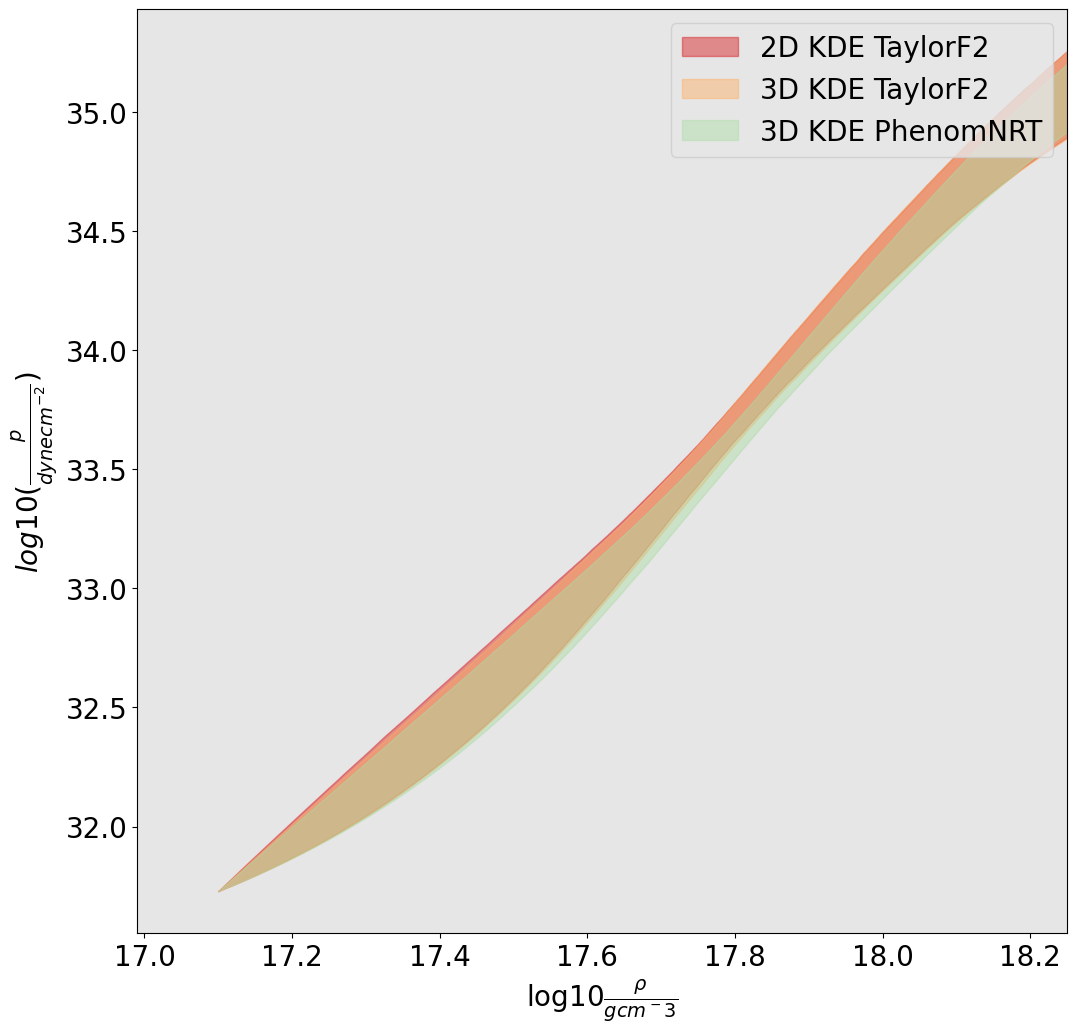
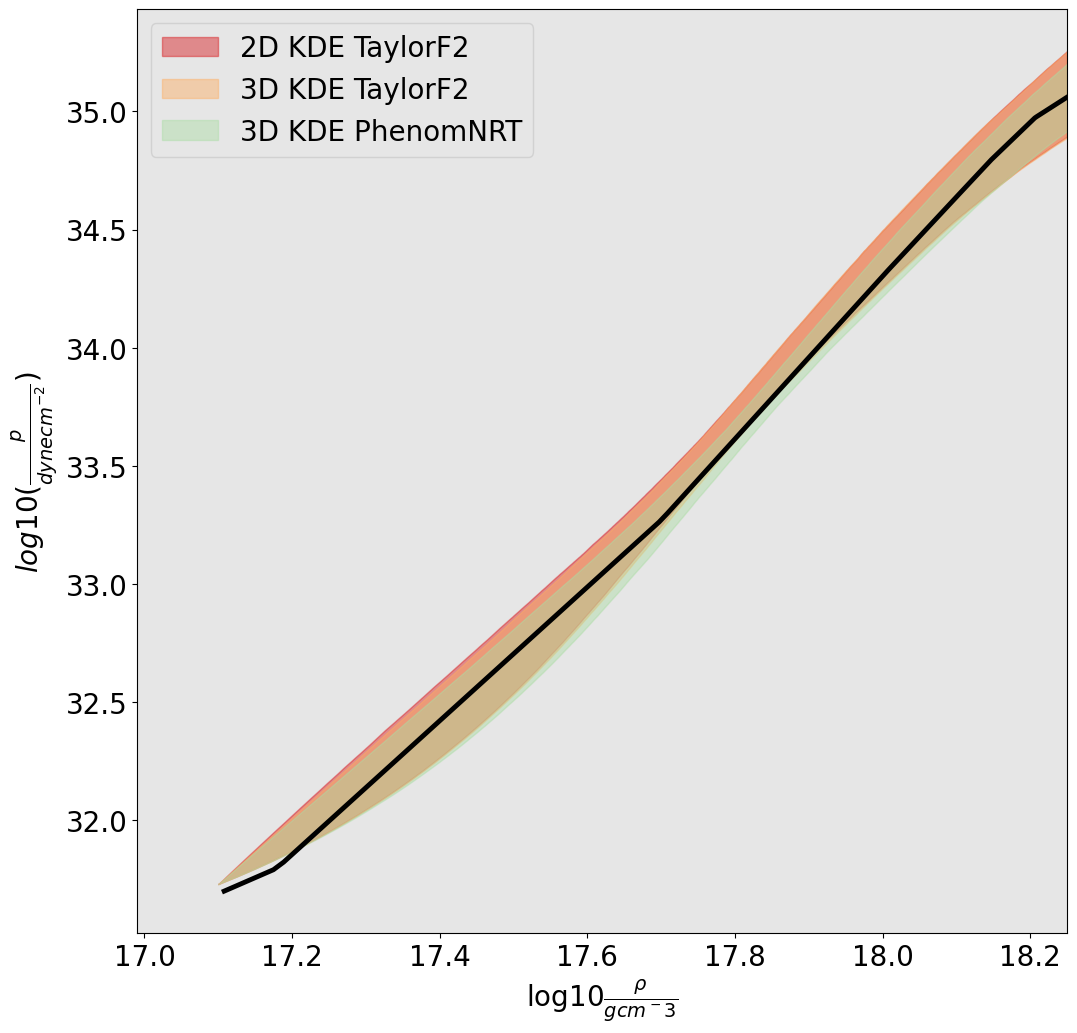
Added APR4_EPP to 16 simulation 1000 sample run plot.

diff --git a/year3/lastStretch/simulConstraint.py b/year3/lastStretch/simulConstraint.py
@@ -9,6 +9,7 @@ import h5py
 import emcee as mc
 import glob
 from multiprocessing import cpu_count, Pool
+import lalsimulation
 
 def calcConstraint1():
     # Adopted from the driver provided in GWXtreme's git. That said it may be restrictive.
@@ -121,6 +122,10 @@ def plotConstraint():
         #plt.plot(lower_bound, rho, label=Label, color=Color)
         #plt.plot(upper_bound, rho, color=Color)
         plt.fill_between(np.log10(rho), lower_bound, upper_bound, color=Color, alpha=0.45, label=Label, zorder=1.)
+
+    logp=eos_p_of_rho(rho,lalsimulation.SimNeutronStarEOSByName("APR4_EPP"))
+    plt.plot(np.log10(rho),logp,color='black', linewidth=3.5)
+
 
     plt.xlim([16.99, 18.25])
     plt.xlabel(r'$\log10{\frac{\rho}{g cm^-3}}$',fontsize=20)
